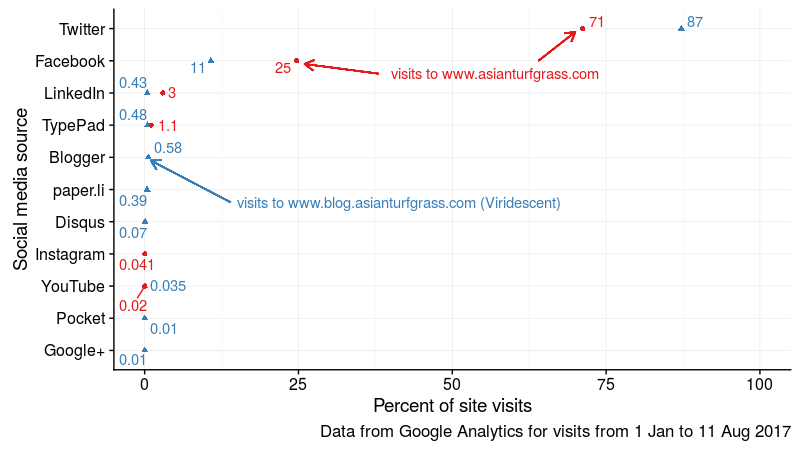
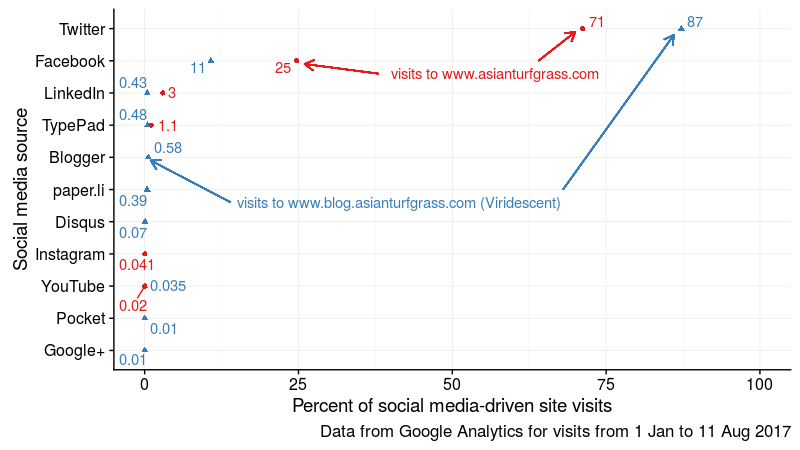
updated images and text

diff --git a/_posts/2017-08-11-which-social-network-work.md b/_posts/2017-08-11-which-social-network-work.md
@@ -2,7 +2,7 @@
 layout: post
 title: "Turfgrass industry social network use for work"
 subtitle: "David Phipps asks which network is preferred for work"
-share-img: "/img/site_visits.png"
+share-img: "http://www.asianturfgrass.com/img/site_visits.png"
 tags: [data analysis, social media]
 ---
 
@@ -14,8 +14,8 @@ As I look at the poll on Twitter, as it stands now, Twitter is the winner in a l
 
 It's interesting that LinkedIn is not even on the poll, but that is supposed to be a network for work. And I know a few turfgrass people or regions that do seem to have quite a bit of stuff on LinkedIn.
 
-I prefer Twitter. By a landslide. Of all the visits to [www.blog.asianturfgrass.com](http://www.blog.asianturfgrass.com/), 65% come from social media. And of those, 87% are from Twitter. And about 80% of the visits to [www.asianturfgrass.com](http://www.asianturfgrass.com/) are through some type of social media, and 71% of those are from Twitter. 
+I prefer Twitter. By a landslide. Of all the visits to [www.blog.asianturfgrass.com](http://www.blog.asianturfgrass.com/), 65% come from social media. And of those coming from some type of social media, 87% are from Twitter. And about 80% of the visits to [www.asianturfgrass.com](http://www.asianturfgrass.com/) are through some type of social media, and 71% of those are from Twitter. 
 
 ![visits to ATC by social media source](/img/site_visits.svg)
 
-I share ATC posts on a range of social media platforms, but it is really only from Twitter that visitors come to read what I've written.
+I share ATC posts on a range of social media platforms, but it is really only from Twitter that vistors click to visit the ATC sites.
